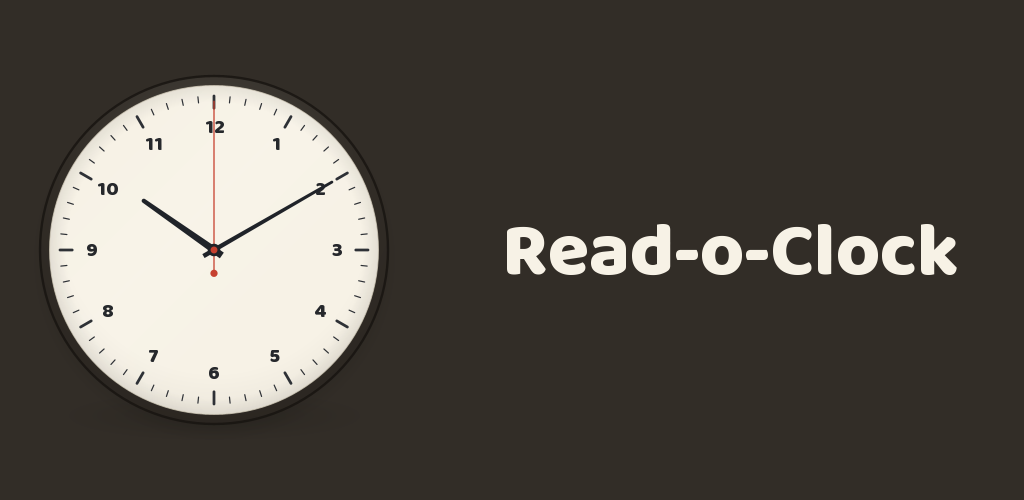
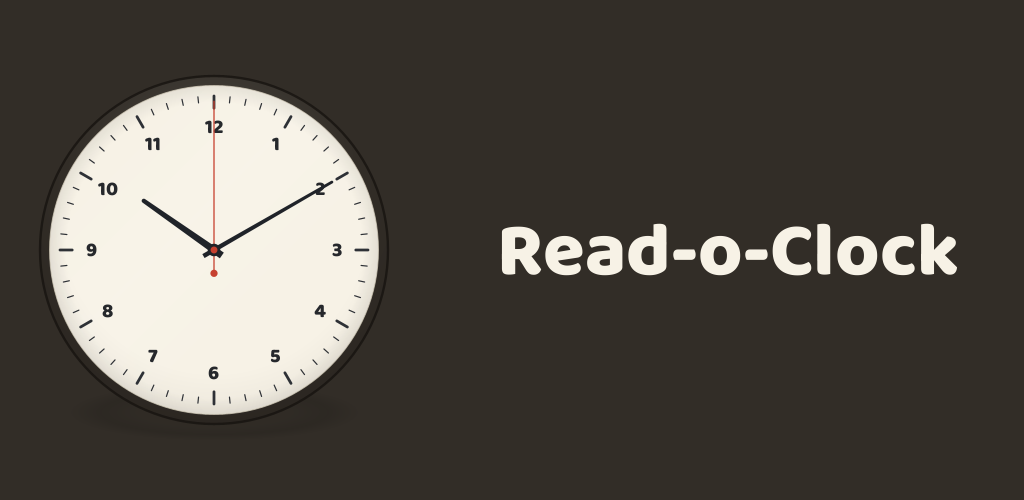
Draw one soft shade under the clock so it floats

diff --git a/app/src/main/java/io/github/muntasimulhaque/readoclock/ui/ClockDial.kt b/app/src/main/java/io/github/muntasimulhaque/readoclock/ui/ClockDial.kt
@@ -43,39 +43,29 @@ fun ClockDial(
 }
 
 private fun DrawScope.drawCaseAndDial(center: Offset, radius: Float) {
-    // The clock hangs in light from above: a broad pool of shade under the
-    // case, and a tighter, darker pool right under the bottom rim. Neither
-    // reaches past 1.10 r, because on a short window the case nearly touches
-    // the screen and a hard clip would show at the edge. The takes renderer
-    // draws the same two pools, so the app and the store art stay one look.
-    val haloCenter = Offset(center.x, center.y + radius * 0.05f)
-    val haloRadius = radius * 1.05f
-    drawCircle(
-        brush = Brush.radialGradient(
-            colorStops = arrayOf(
-                0.80f to Color(0f, 0f, 0f, 40f / 255f),
-                1f to Color.Transparent,
-            ),
-            center = haloCenter,
-            radius = haloRadius,
-        ),
-        radius = haloRadius,
-        center = haloCenter,
-    )
-    val contactCenter = Offset(center.x, center.y + radius * 0.95f)
-    val contactRadius = radius * 0.90f
-    scale(scaleX = 1f, scaleY = 0.167f, pivot = contactCenter) {
+    // The clock floats a little off the wall: one soft pool, narrower than
+    // the case so it never rings the sides, its dark gathered just below the
+    // bottom rim and its lightest right under the rim, so the shade reads as
+    // cast, not as a smudge touching the clock. It dies at 1.095 r because
+    // on a short window the case nearly touches the screen and a hard clip
+    // would show at the edge. The takes renderer draws the same pool from
+    // the same numbers, so the app and the store art stay one look.
+    val shadowCenter = Offset(center.x, center.y + radius * 0.93f)
+    val reach = radius * 0.84f
+    scale(scaleX = 1f, scaleY = 0.196f, pivot = shadowCenter) {
         drawCircle(
             brush = Brush.radialGradient(
                 colorStops = arrayOf(
-                    0f to Color(0f, 0f, 0f, 34f / 255f),
+                    0f to Color(0f, 0f, 0f, 8f / 255f),
+                    0.50f to Color(0f, 0f, 0f, 10f / 255f),
+                    0.78f to Color(0f, 0f, 0f, 26f / 255f),
                     1f to Color.Transparent,
                 ),
-                center = contactCenter,
-                radius = contactRadius,
+                center = shadowCenter,
+                radius = reach,
             ),
-            radius = contactRadius,
-            center = contactCenter,
+            radius = reach,
+            center = shadowCenter,
         )
     }
 

diff --git a/tools/src/main/kotlin/io/github/muntasimulhaque/readoclock/tools/DialRenderer.kt b/tools/src/main/kotlin/io/github/muntasimulhaque/readoclock/tools/DialRenderer.kt
@@ -45,31 +45,28 @@ object DialRenderer {
     }
 
     private fun drawShadow(g: Graphics2D, cx: Double, cy: Double, r: Double) {
-        // The clock hangs in light from above: a broad pool of shade under
-        // the case, and a tighter, darker pool right under the bottom rim.
-        // Neither may reach past 1.10 r, because on a short window the case
-        // nearly touches the screen and a hard clip would show at the edge.
-        val haloCenter = Point2D.Double(cx, cy + r * 0.05)
-        val haloRadius = r * 1.05
-        g.paint = RadialGradientPaint(
-            haloCenter,
-            haloRadius.toFloat(),
-            floatArrayOf(0.80f, 1.0f),
-            arrayOf(Color(0, 0, 0, 40), Color(0, 0, 0, 0)),
-        )
-        g.fill(Ellipse2D.Double(haloCenter.x - haloRadius, haloCenter.y - haloRadius, haloRadius * 2, haloRadius * 2))
-
+        // The clock floats a little off the wall. One soft pool, narrower
+        // than the case so it never rings the sides, its dark gathered just
+        // below the bottom rim and its lightest right under the rim: shade
+        // cast onto the wall, not a smudge touching the clock. It dies at
+        // 1.095 r because on a short window the case nearly touches the
+        // screen and a hard clip would show at the edge.
         val previous = g.transform
-        g.translate(cx, cy + r * 0.95)
-        g.scale(1.0, 0.167)
-        val contactRadius = r * 0.90
+        g.translate(cx, cy + r * 0.93)
+        g.scale(1.0, 0.196)
+        val reach = r * 0.84
         g.paint = RadialGradientPaint(
             Point2D.Double(0.0, 0.0),
-            contactRadius.toFloat(),
-            floatArrayOf(0.0f, 1.0f),
-            arrayOf(Color(0, 0, 0, 34), Color(0, 0, 0, 0)),
+            reach.toFloat(),
+            floatArrayOf(0.0f, 0.50f, 0.78f, 1.0f),
+            arrayOf(
+                Color(0, 0, 0, 8),
+                Color(0, 0, 0, 10),
+                Color(0, 0, 0, 26),
+                Color(0, 0, 0, 0),
+            ),
         )
-        g.fill(Ellipse2D.Double(-contactRadius, -contactRadius, contactRadius * 2, contactRadius * 2))
+        g.fill(Ellipse2D.Double(-reach, -reach, reach * 2, reach * 2))
         g.transform = previous
     }
 

diff --git a/tools/src/main/kotlin/io/github/muntasimulhaque/readoclock/tools/MakeTakes.kt b/tools/src/main/kotlin/io/github/muntasimulhaque/readoclock/tools/MakeTakes.kt
@@ -69,7 +69,9 @@ private fun writeDial(file: File, skin: Skin, font: Font, secondsOfDay: Double) 
         g,
         centerX = size / 2.0,
         centerY = size / 2.0,
-        caseRadius = size * 0.47,
+        // 0.44, not 0.47: the case must keep the same margin the app gives
+        // it, or the floating shadow runs off the bottom of the take.
+        caseRadius = size * 0.44,
         skin = skin,
         secondsOfDay = secondsOfDay,
         numeralFont = font,
